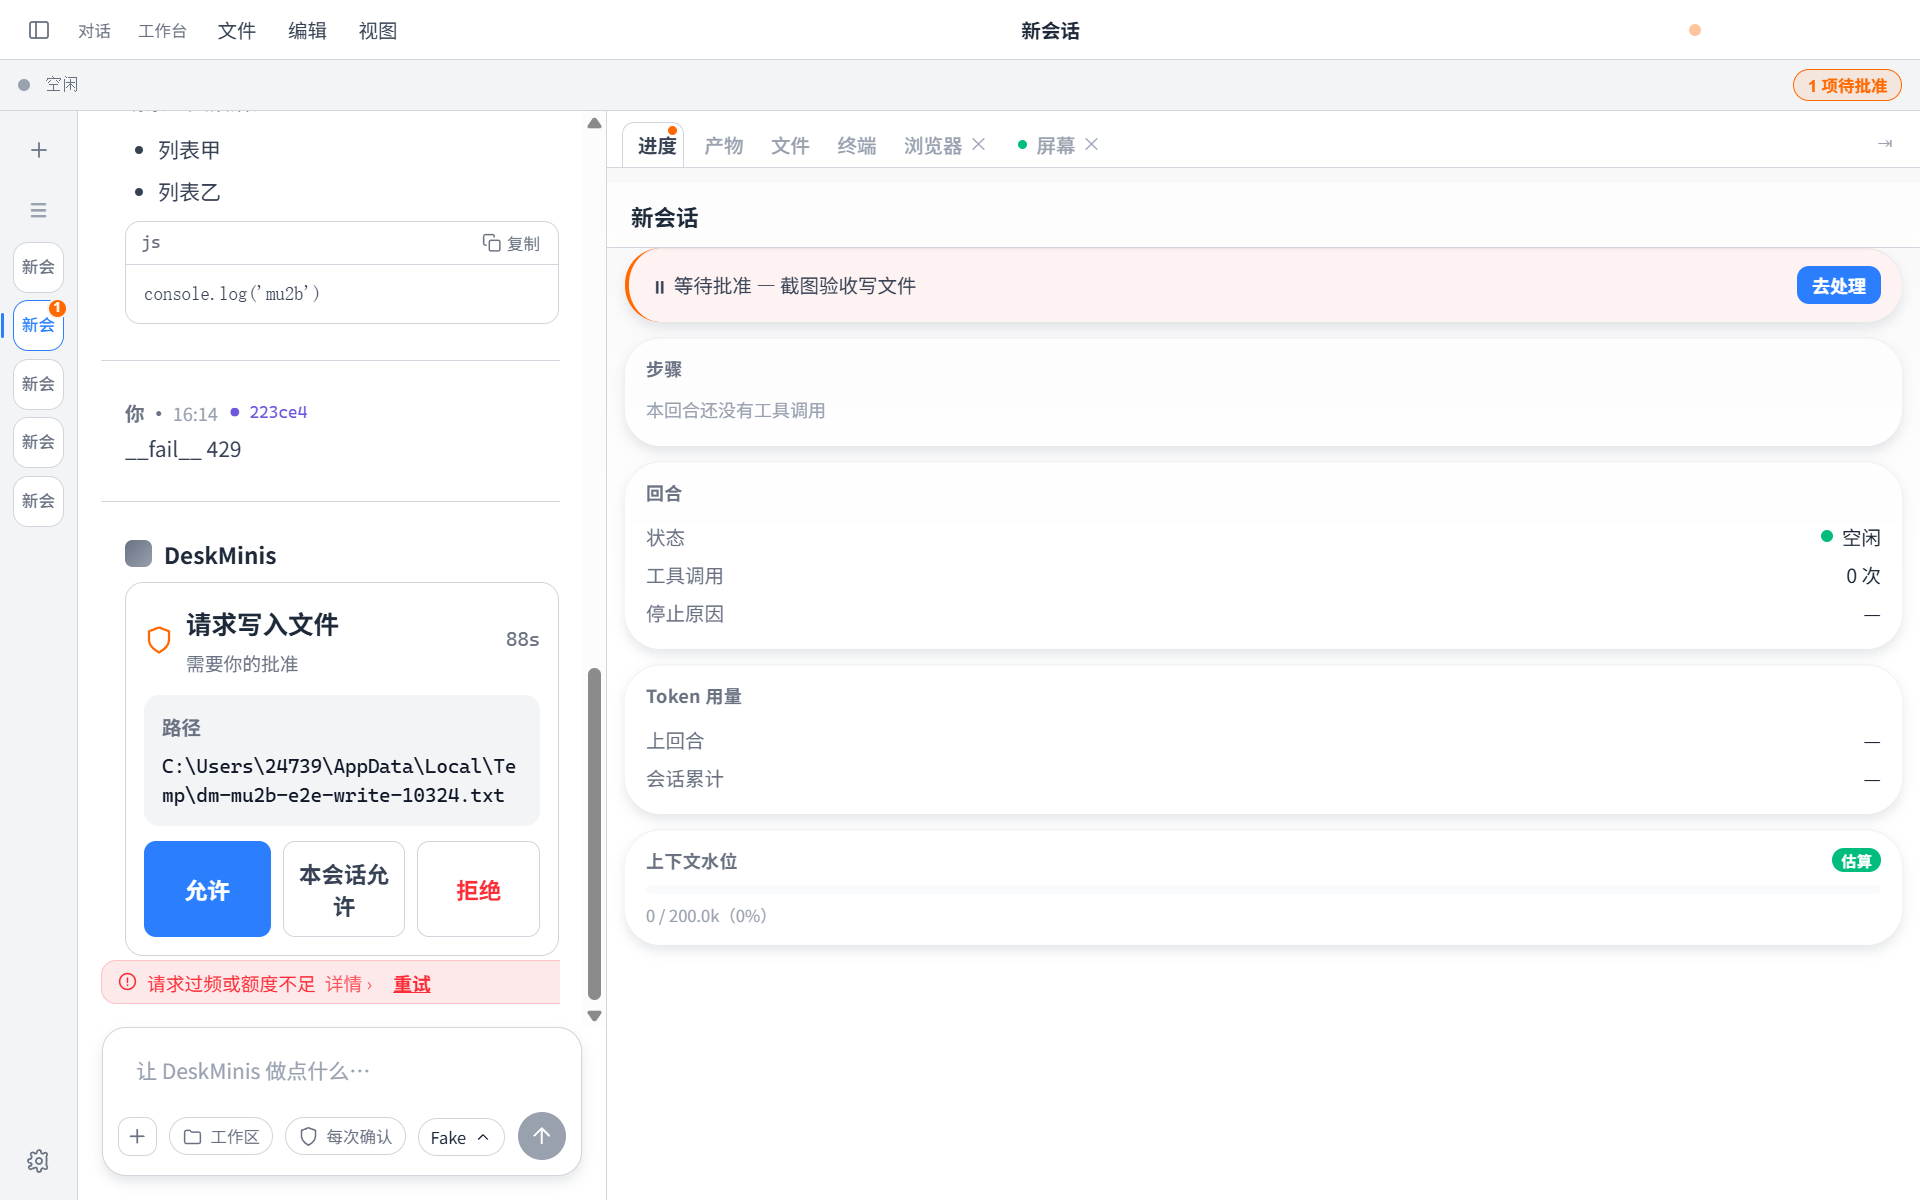
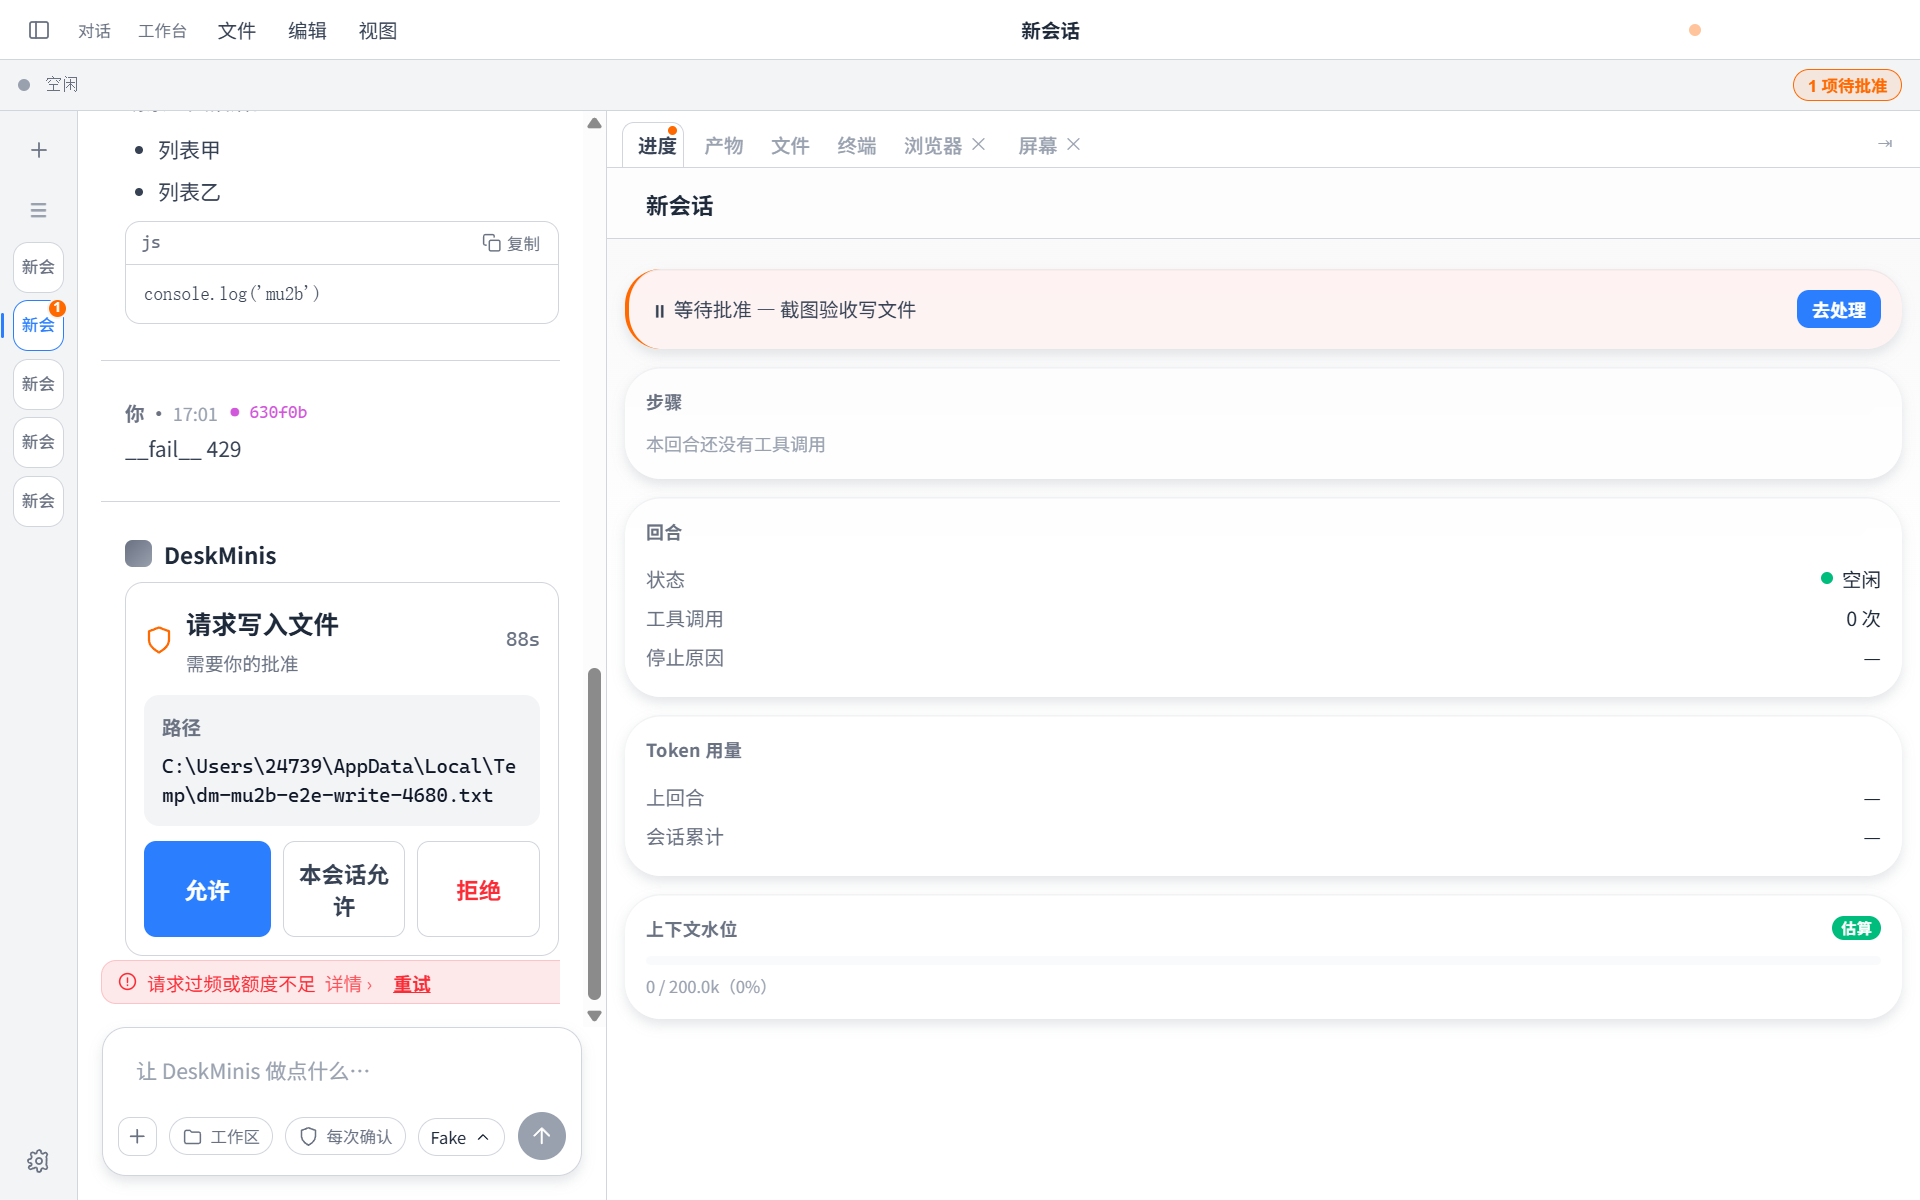
fix(ui): 进度面板对齐与卡片分离——标题与卡片共用左边界，去掉负边距
用户 2026-08-11 四条实测反馈，逐条对应。「歪」这种事眼睛容易骗人，故每条都先量再改。

1「比例有点歪」→ **根因是左边界不齐**。吸顶标题用负边距撑满面板、自己 padding-left:16，
  文字落在距面板边 16px；卡片在面板 padding:12 之内、自己再 padding:14，文字落在 26px。
  差 10px，整屏看着就是歪。把标题内边距改 26，两者共用同一条左边界。
  实测：标题文字左缘 575 / 卡片文字左缘 575，**差 0px**。

2「步骤粘连在新会话」→ 间距只有 6px。查因时发现是**负上边距在作怪**：
  margin-top:-10 会参与 flex 的外边距盒计算，把标题与首卡之间的间距吃掉——
  设的是 gap 12 + margin-bottom 4 = 16，实测只剩 6。
  改法不是加大数值，是**去掉负边距本身**：面板 padding-top 归零（吸顶标题自带内边距并撑满，
  面板再给上边距只会和它打架），标题 margin 改 0 -12px 8px。实测间距 6px → **20px**。

3「格子内字体不居中」→ 卡片 padding 上下各 12，但内部末行还带 3~4px 行内边距，视觉重心偏上。
  收口为「卡片 14 上下 + 内部行零外扩」：.step/.prow 改 min-height 定行高，
  .pempty 去掉不对称的 padding。分区标题与内容间距 8→10，让格子里成两层而不是挤在一起。

4「你到底是不是卡片化设计」→ 是。卡片化的分离感来自**间距**而不是描边，
  故卡片间 gap 10→12、面板底部留白 16、标题与首卡 20。

e2e:mu6 新增用例 4c 把这两个数钉死（左缘差 ≤1px、标题与首卡间距 ≥12px）——
「看着还行」不算数，下次有人动内边距会立刻红。

验证：npm test 1089/1089；typecheck 0；build 三产物；e2e:mu6 9/9、e2e:mu2b 8/8，明暗两态实拍确认。

diff --git a/deskminis/src/renderer/src/components/ProgressPanel.vue b/deskminis/src/renderer/src/components/ProgressPanel.vue
@@ -176,16 +176,23 @@ function fmt(n: number): string {
    ② 标题做**吸顶**，卡片从它下面滚过去，这才是 backdrop-filter 真正显形的地方；
    ③ 卡片靠「半透明 + 顶部内高光 + 柔和投影」造厚度，而不是描边——边框是平面语言。 */
 .ppanel {
-  flex: 1; min-height: 0; overflow: auto; padding: 10px 12px;
-  display: flex; flex-direction: column; gap: 10px;
+  /* 顶部内边距归零：吸顶标题自带内边距并撑满面板，面板再给上边距只会和它打架。
+     归零后也顺带**去掉了标题的负上边距**——负外边距会参与 flex 的外边距盒计算，
+     把它与首卡之间的间距吃掉（实测 16px 只剩 6px，肉眼即「粘连」）。 */
+  flex: 1; min-height: 0; overflow: auto; padding: 0 12px 16px;
+  display: flex; flex-direction: column; gap: 12px;
   background: var(--glass-ground);
 }
 .phint { font-size: var(--fs-caption); color: var(--label-tertiary); padding: 12px; text-align: center; line-height: 1.6; }
 /* 吸顶玻璃头：负外边距把它撑到面板边缘，top:0 贴住滚动视口顶。
    z-index 只在 .ppanel 内部生效——本面板没有弹出层，不会重演 TitleBar 的层叠上下文陷阱。 */
+/* 左内边距 26 = 面板 12 + 卡片 14：**标题与卡片内文字共用一条左边界**。
+   原来标题是 16、卡片文字是 26，差 10px——整屏看着就是「歪」（用户 2026-08-11 实测指出）。
+   margin-bottom 4 叠在面板 gap 12 上 = 与首卡隔开 16px：卡片化设计的分离感来自间距，
+   而标题带磨砂背景、卡片也带，贴太近两层玻璃会糊成一片（「步骤粘连在新会话」）。 */
 .ptask {
   position: sticky; top: 0; z-index: 2;
-  margin: -10px -12px 0; padding: 12px 16px 10px;
+  margin: 0 -12px 8px; padding: 14px 26px 12px;
   font-size: var(--fs-title); font-weight: 600; color: var(--label-strong); line-height: 1.4;
   background: var(--glass-thick);
   backdrop-filter: var(--glass-blur);
@@ -197,7 +204,9 @@ function fmt(n: number): string {
   backdrop-filter: var(--glass-blur);
   -webkit-backdrop-filter: var(--glass-blur);
   border-radius: var(--r-sheet);
-  padding: 12px 14px;
+  /* 上下对称：原来是 12/12 但内部末行还带 3~4px 的行内边距，视觉重心偏上
+     （用户：「格子内字体不居中」）。这里收口为「卡片 14 上下 + 内部行零外扩」。 */
+  padding: 14px 14px;
   /* 顶部那道内高光是「有厚度」的关键：比加一圈边框克制，也更像玻璃的受光边 */
   box-shadow: inset 0 1px 0 var(--glass-edge), var(--shadow-fab);
 }
@@ -213,12 +222,12 @@ function fmt(n: number): string {
 }
 .phead {
   font-size: var(--fs-caption); font-weight: 600; color: var(--label-secondary);
-  letter-spacing: .02em; margin-bottom: 8px; display: flex; align-items: center; gap: 6px;
+  letter-spacing: .02em; margin-bottom: 10px; display: flex; align-items: center; gap: 6px;
 }
 .eicon { font-weight: 700; }
 .ebody { font-size: var(--fs-caption); color: var(--label); line-height: 1.5; }
-.pempty { font-size: var(--fs-caption); color: var(--label-tertiary); padding: 2px 0 4px; }
-.step { display: flex; align-items: center; gap: 8px; padding: 3px 0; font-size: var(--fs-ui); }
+.pempty { font-size: var(--fs-caption); color: var(--label-tertiary); line-height: 1.6; }
+.step { display: flex; align-items: center; gap: 8px; min-height: 24px; font-size: var(--fs-ui); }
 .sicon { flex: 0 0 auto; width: 16px; text-align: center; font-size: var(--fs-caption); }
 .sicon.ok { color: var(--state-ok); }
 .sicon.fail { color: var(--state-err); }
@@ -230,7 +239,7 @@ function fmt(n: number): string {
 .stitle { flex: 1; min-width: 0; color: var(--label); overflow: hidden; text-overflow: ellipsis; white-space: nowrap; }
 .sdur { flex: 0 0 auto; color: var(--label-tertiary); font-family: var(--font-mono); font-size: var(--fs-mono); font-variant-numeric: tabular-nums; }
 .pbadge { margin-left: auto; font-size: 10px; color: var(--on-action); padding: 1px 6px; border-radius: 999px; }
-.prow { display: flex; align-items: center; justify-content: space-between; gap: 8px; padding: 3px 0; font-size: var(--fs-ui); }
+.prow { display: flex; align-items: center; justify-content: space-between; gap: 8px; min-height: 26px; font-size: var(--fs-ui); }
 .plabel { color: var(--label-secondary); flex: 0 0 auto; }
 .pval { color: var(--label-strong); display: inline-flex; align-items: center; gap: 6px; font-variant-numeric: tabular-nums; text-align: right; }
 .pnote { font-size: var(--fs-caption); color: var(--state-warn); padding: 2px 0 4px; }
